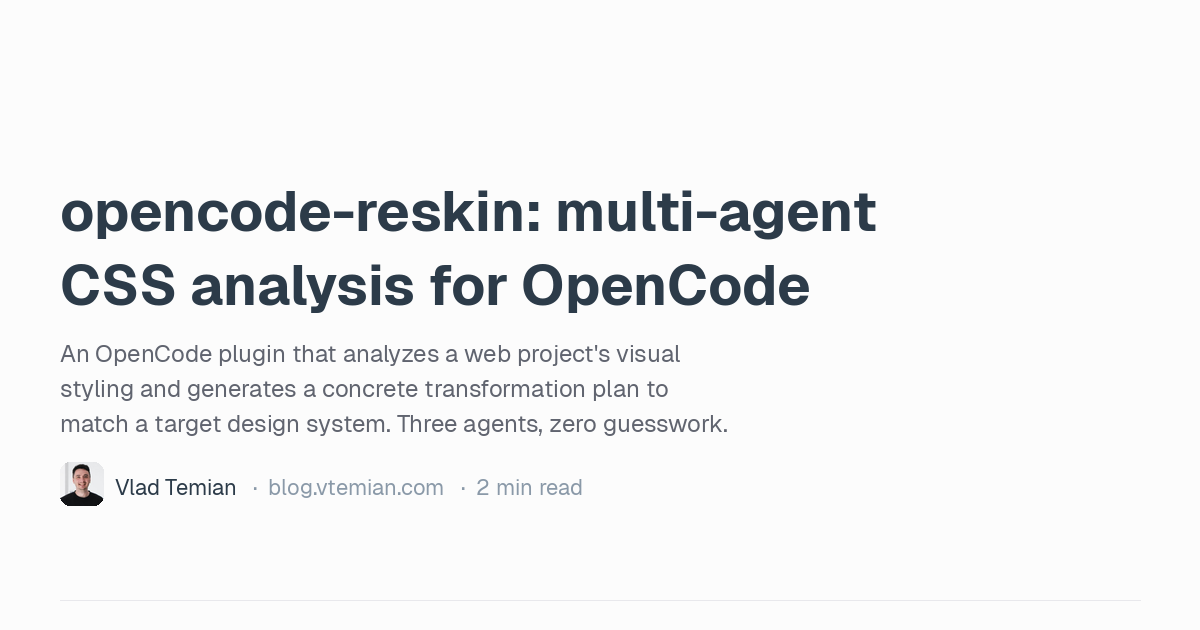
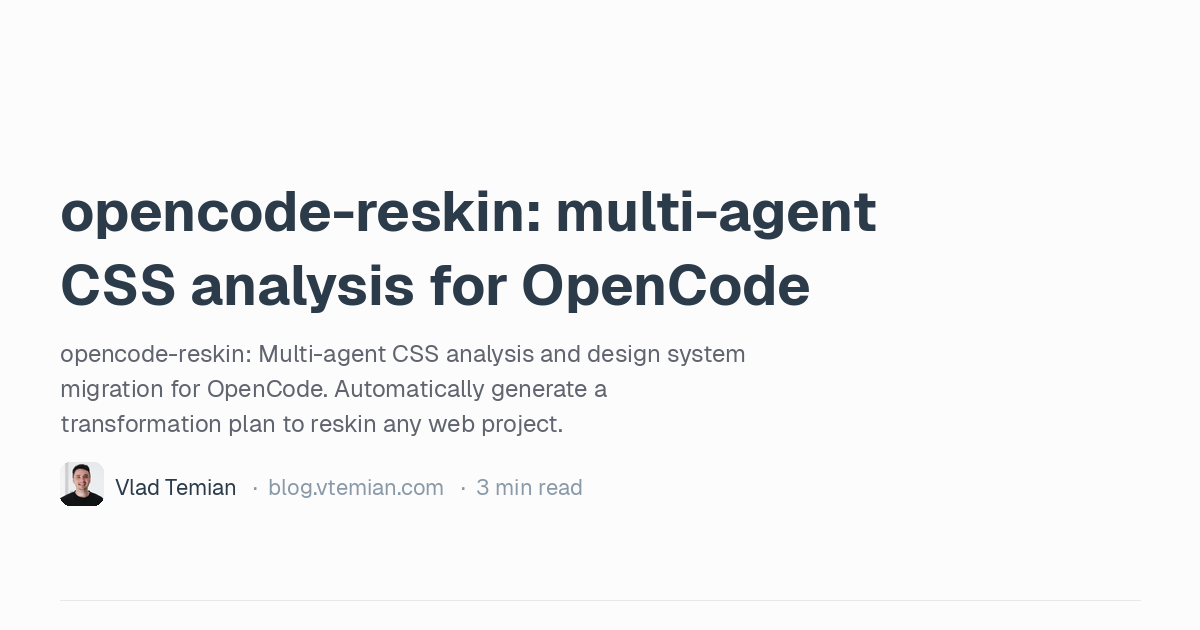
deploy: bbd89ee7d0d56a0121f3741bc6a42ab35b096a62

diff --git a/project/opencode-reskin/index.html b/project/opencode-reskin/index.html
@@ -1,10 +1,7 @@
-<!doctype html><html lang=en><head><script>localStorage.getItem("theme")==="dark"&&document.documentElement.classList.add("dark")</script><meta http-equiv=X-UA-Compatible content="IE=edge"><meta name=viewport content="width=device-width,minimum-scale=1"><link rel=preconnect href=https://cdn.jsdelivr.net crossorigin><link rel=stylesheet href=https://cdn.jsdelivr.net/npm/geist@1/dist/fonts/geist-sans/style.css><link rel=stylesheet href=https://cdn.jsdelivr.net/npm/geist@1/dist/fonts/geist-mono/style.css><link rel=stylesheet href=//cdnjs.cloudflare.com/ajax/libs/highlight.js/11.9.0/styles/nord.min.css><script src=//cdnjs.cloudflare.com/ajax/libs/highlight.js/11.9.0/highlight.min.js></script><script>hljs.highlightAll()</script><meta charset=utf-8><meta name=robots content="index,follow"><link rel=canonical href=https://blog.vtemian.com/project/opencode-reskin/><link rel=icon type=image/svg+xml href=https://blog.vtemian.com/favicon.svg><link rel=apple-touch-icon href=https://blog.vtemian.com/favicon.svg><meta name=keywords content="opencode-reskin,opencode,agentic programming,ai tools,developer tools,css,design systems"><meta name=description content="An OpenCode plugin that analyzes a web project's visual styling and generates a concrete transformation plan to match a target design system. Three agents, zero guesswork."><meta property="og:url" content="https://blog.vtemian.com/project/opencode-reskin/"><meta property="og:site_name" content="Vlad Temian - Centrist Tech Optimist"><meta property="og:title" content="opencode-reskin: multi-agent CSS analysis for OpenCode"><meta property="og:description" content="An OpenCode plugin that analyzes a web project's visual styling and generates a concrete transformation plan to match a target design system. Three agents, zero guesswork."><meta property="og:locale" content="en_US"><meta property="og:type" content="article"><meta property="article:published_time" content="2026-01-02T01:00:00+03:00"><meta property="article:modified_time" content="2026-01-02T01:00:00+03:00"><meta property="article:tag" content="Ai"><meta property="article:tag" content="Tools"><meta property="article:tag" content="Open-Source"><meta property="og:image" content="https://blog.vtemian.com/project/opencode-reskin/og.png"><meta name=twitter:card content="summary_large_image"><meta name=twitter:title content="opencode-reskin: multi-agent CSS analysis for OpenCode"><meta name=twitter:description content="An OpenCode plugin that analyzes a web project's visual styling and generates a concrete transformation plan to match a target design system. Three agents, zero guesswork."><meta name=twitter:image content="https://blog.vtemian.com/project/opencode-reskin/og.png"><script type=application/ld+json>{"@context":"https://schema.org","@type":"BlogPosting","mainEntityOfPage":{"@type":"WebPage","@id":"https:\/\/blog.vtemian.com\/project\/opencode-reskin\/"},"headline":"opencode-reskin: multi-agent CSS analysis for OpenCode","description":"An OpenCode plugin that analyzes a web project\u0027s visual styling and generates a concrete transformation plan to match a target design system. Three agents, zero guesswork.","inLanguage":"en-US","author":{"@type":"Person","name":"Vlad Temian","url":"https:\/\/blog.vtemian.com\/","sameAs":["https://github.com/vtemian","https://linkedin.com/in/vtemian","https://x.com/vtemian"]},"publisher":{"@type":"Person","name":"Vlad Temian"},"datePublished":"2026-01-02T01:00:00\u002b03:00","dateModified":"2026-01-02T01:00:00\u002b03:00","url":"https:\/\/blog.vtemian.com\/project\/opencode-reskin\/","wordCount":284,"timeRequired":"PT1M","keywords":["ai","tools","open-source"]}</script><script type=application/ld+json>{"@context":"https://schema.org","@type":"BreadcrumbList","itemListElement":[{"@type":"ListItem","position":1,"name":"Home","item":"https:\/\/blog.vtemian.com\/"},{"@type":"ListItem","position":2,"name":"Project","item":"https:\/\/blog.vtemian.com\/project/"},{"@type":"ListItem","position":3,"name":"opencode-reskin: multi-agent CSS analysis for OpenCode","item":"https:\/\/blog.vtemian.com\/project\/opencode-reskin\/"}]}</script><title>opencode-reskin: multi-agent CSS analysis for OpenCode | Vlad Temian - Centrist Tech Optimist</title>
+<!doctype html><html lang=en><head><script>localStorage.getItem("theme")==="dark"&&document.documentElement.classList.add("dark")</script><meta http-equiv=X-UA-Compatible content="IE=edge"><meta name=viewport content="width=device-width,minimum-scale=1"><link rel=preconnect href=https://cdn.jsdelivr.net crossorigin><link rel=stylesheet href=https://cdn.jsdelivr.net/npm/geist@1/dist/fonts/geist-sans/style.css><link rel=stylesheet href=https://cdn.jsdelivr.net/npm/geist@1/dist/fonts/geist-mono/style.css><link rel=stylesheet href=//cdnjs.cloudflare.com/ajax/libs/highlight.js/11.9.0/styles/nord.min.css><script src=//cdnjs.cloudflare.com/ajax/libs/highlight.js/11.9.0/highlight.min.js></script><script>hljs.highlightAll()</script><meta charset=utf-8><meta name=robots content="index,follow"><link rel=canonical href=https://blog.vtemian.com/project/opencode-reskin/><link rel=icon type=image/svg+xml href=https://blog.vtemian.com/favicon.svg><link rel=apple-touch-icon href=https://blog.vtemian.com/favicon.svg><meta name=keywords content="opencode-reskin,opencode,agentic programming,ai design system,css orchestration,style transformation,multi-agent design,developer tools,tailwind migration"><meta name=description content="opencode-reskin: Multi-agent CSS analysis and design system migration for OpenCode. Automatically generate a transformation plan to reskin any web project."><meta property="og:url" content="https://blog.vtemian.com/project/opencode-reskin/"><meta property="og:site_name" content="Vlad Temian - Centrist Tech Optimist"><meta property="og:title" content="opencode-reskin: multi-agent CSS analysis for OpenCode"><meta property="og:description" content="opencode-reskin: Multi-agent CSS analysis and design system migration for OpenCode. Automatically generate a transformation plan to reskin any web project."><meta property="og:locale" content="en_US"><meta property="og:type" content="article"><meta property="article:published_time" content="2026-01-02T01:00:00+03:00"><meta property="article:modified_time" content="2026-01-02T01:00:00+03:00"><meta property="article:tag" content="Ai"><meta property="article:tag" content="Tools"><meta property="article:tag" content="Open-Source"><meta property="article:tag" content="Agentic-Programming"><meta property="article:tag" content="Design-Systems"><meta property="og:image" content="https://blog.vtemian.com/project/opencode-reskin/og.png"><meta name=twitter:card content="summary_large_image"><meta name=twitter:title content="opencode-reskin: multi-agent CSS analysis for OpenCode"><meta name=twitter:description content="opencode-reskin: Multi-agent CSS analysis and design system migration for OpenCode. Automatically generate a transformation plan to reskin any web project."><meta name=twitter:image content="https://blog.vtemian.com/project/opencode-reskin/og.png"><script type=application/ld+json>{"@context":"https://schema.org","@type":"BlogPosting","mainEntityOfPage":{"@type":"WebPage","@id":"https:\/\/blog.vtemian.com\/project\/opencode-reskin\/"},"headline":"opencode-reskin: multi-agent CSS analysis for OpenCode","description":"opencode-reskin: Multi-agent CSS analysis and design system migration for OpenCode. Automatically generate a transformation plan to reskin any web project.","inLanguage":"en-US","author":{"@type":"Person","name":"Vlad Temian","url":"https:\/\/blog.vtemian.com\/","sameAs":["https://github.com/vtemian","https://linkedin.com/in/vtemian","https://x.com/vtemian"]},"publisher":{"@type":"Person","name":"Vlad Temian"},"datePublished":"2026-01-02T01:00:00\u002b03:00","dateModified":"2026-01-02T01:00:00\u002b03:00","url":"https:\/\/blog.vtemian.com\/project\/opencode-reskin\/","wordCount":364,"timeRequired":"PT2M","keywords":["ai","tools","open-source","agentic-programming","design-systems"]}</script><script type=application/ld+json>{"@context":"https://schema.org","@type":"BreadcrumbList","itemListElement":[{"@type":"ListItem","position":1,"name":"Home","item":"https:\/\/blog.vtemian.com\/"},{"@type":"ListItem","position":2,"name":"Project","item":"https:\/\/blog.vtemian.com\/project/"},{"@type":"ListItem","position":3,"name":"opencode-reskin: multi-agent CSS analysis for OpenCode","item":"https:\/\/blog.vtemian.com\/project\/opencode-reskin\/"}]}</script><title>opencode-reskin: multi-agent CSS analysis for OpenCode | Vlad Temian - Centrist Tech Optimist</title>
 <link rel=stylesheet href=https://blog.vtemian.com/stylesheets/main.min.a3dd6e53cb8317669f7120e254ee74bc7ddd98748ed802cc4adc882876a27160.css media=screen><meta name=google-site-verification content="2qk_e0y84NNSVpaorKgeNURYF9Ni3UyJvPq9GZdGEgs"></head><body class="bg-bg font-sans text-sm leading-relaxed text-ink antialiased"><div class="mx-auto flex max-w-2xl flex-col gap-12 px-5 py-12"><a href=https://blog.vtemian.com/ class="font-mono text-xs tracking-wide text-muted">Back</a><article class="flex flex-col gap-12"><header class="flex flex-col gap-2"><h1 class=text-2xl>opencode-reskin: multi-agent CSS analysis for OpenCode</h1><p class="text-xs text-link">January 2026</p></header><div class="flex flex-col gap-4"><video autoplay loop muted playsinline width=100% style=margin-bottom:2rem>
-<source src=demo.mp4 type=video/mp4></video><p>Reskinning a web project manually is tedious. You open the target design, then spend hours hunting through CSS files, Tailwind configs, and component styles, trying to figure out what needs to change and where. It&rsquo;s the kind of work that&rsquo;s simple in theory but death by a thousand paper cuts in practice.</p><p><strong><a href=https://github.com/vtemian/opencode-reskin>opencode-reskin</a></strong> automates the analysis and planning.</p><h2 id=one-command-full-plan>One Command, Full Plan</h2><div class=highlight><pre tabindex=0 style=color:#f8f8f2;background-color:#272822;-moz-tab-size:4;-o-tab-size:4;tab-size:4><code class=language-bash data-lang=bash><span style=display:flex><span>/skin nof1
-</span></span></code></pre></div><p>That&rsquo;s it. The plugin scans your project&rsquo;s current styling, compares it against the target skin definition, and produces a markdown checklist of exact changes:</p><pre tabindex=0><code>Change --background: #0f172a -&gt; #ffffff in src/styles/globals.css
-Change font-family: Inter -&gt; IBM Plex Sans in tailwind.config.ts
-Change border-radius: 0.5rem -&gt; 0.25rem in src/components/Card.tsx
-</code></pre><p>It plans, it does not execute. You review the checklist, then apply the changes yourself or hand them off to another agent. Full control over what actually gets modified.</p><h2 id=three-agents-working-in-parallel>Three Agents Working in Parallel</h2><table><thead><tr><th>Agent</th><th>Role</th></tr></thead><tbody><tr><td><strong>reskin</strong></td><td>Orchestrator. Spawns subagents, compares findings against the skin definition, generates the transformation plan</td></tr><tr><td><strong>style-analyzer</strong></td><td>Scans CSS files, Tailwind config, and design tokens</td></tr><tr><td><strong>component-scanner</strong></td><td>Finds UI components, identifies styling patterns, detects the framework</td></tr></tbody></table><p>Both analysis agents run concurrently, so the workflow stays fast even on large projects.</p><h2 id=skins-as-data>Skins as Data</h2><p>Skin definitions are declarative files defining colors (palette and semantic), typography (fonts and scale), spacing, border radius, and optionally data visualization styles, component overrides, and design guidelines. Adding a new skin is just dropping a new definition file into the <code>skins/</code> directory.</p><p>The plugin ships with one skin (<code>nof1</code>, a neutral dashboard style), but the system is designed to be extended.</p><p><strong><a href=https://github.com/vtemian/opencode-reskin>Source on GitHub</a></strong></p><p>Another OpenCode plugin in the same family: <a href=https://blog.vtemian.com/project/micode/>micode</a> applies the multi-agent pattern to the full development workflow, not just styling.</p><p>Stay curious ☕</p></div></article><footer class="flex justify-between text-xs text-link"><span>&copy; 2026 <a href=https://github.com/vtemian>Vlad Temian</a></span>
+<source src=demo.mp4 type=video/mp4></video><p>Reskinning a web project manually is &ldquo;death by a thousand paper cuts.&rdquo; You spend hours hunting through Tailwind configs, global CSS files, and component-level styles, trying to figure out what needs to change to match a new design system. It&rsquo;s tedious, error-prone, and exactly the kind of work humans shouldn&rsquo;t be doing.</p><p><strong><a href=https://github.com/vtemian/opencode-reskin>opencode-reskin</a></strong> automates the &ldquo;archaeology&rdquo; and planning.</p><h2 id=one-command-deterministic-plan>One Command, Deterministic Plan</h2><div class=highlight><pre tabindex=0 style=color:#f8f8f2;background-color:#272822;-moz-tab-size:4;-o-tab-size:4;tab-size:4><code class=language-bash data-lang=bash><span style=display:flex><span>/skin nof1
+</span></span></code></pre></div><p>The plugin scans your project, compares it against a target design system (skin), and produces a <strong>concrete transformation plan</strong>. No guesswork. No &ldquo;maybe.&rdquo; You get a markdown checklist of exact changes:</p><ul><li><code>Change --background: #0f172a -> #ffffff in src/styles/globals.css</code></li><li><code>Change font-family: Inter -> IBM Plex Sans in tailwind.config.ts</code></li><li><code>Change border-radius: 0.5rem -> 0.25rem in src/components/Card.tsx</code></li></ul><h2 id=the-multi-agent-strategy-why-it-matters>The Multi-Agent Strategy: Why it Matters</h2><p>A single LLM prompt often fails at large-scale design migrations because it can&rsquo;t hold the entire CSS/Component tree in context. <strong>opencode-reskin</strong> solves this by orchestrating three specialized agents:</p><ul><li><strong>Style Analyzer</strong>: Scans global CSS, Tailwind configs, and design tokens to build the &ldquo;base&rdquo; styling profile.</li><li><strong>Component Scanner</strong>: Identifies UI patterns and framework-specific styling (e.g., Shadcn, Radix) to see how styles are actually consumed.</li><li><strong>The Orchestrator</strong>: Compares both findings against the target skin and generates the final, unified checklist.</li></ul><p>By splitting the &ldquo;Base CSS&rdquo; from the &ldquo;Component Consumption,&rdquo; the tool avoids the hallucinations common in single-agent architectures.</p><p>&mldr;</p><h2 id=three-agents-working-in-parallel>Three Agents Working in Parallel</h2><table><thead><tr><th>Agent</th><th>Role</th></tr></thead><tbody><tr><td><strong>reskin</strong></td><td>Orchestrator. Spawns subagents, compares findings against the skin definition, generates the transformation plan</td></tr><tr><td><strong>style-analyzer</strong></td><td>Scans CSS files, Tailwind config, and design tokens</td></tr><tr><td><strong>component-scanner</strong></td><td>Finds UI components, identifies styling patterns, detects the framework</td></tr></tbody></table><p>Both analysis agents run concurrently, so the workflow stays fast even on large projects.</p><h2 id=skins-as-data>Skins as Data</h2><p>Skin definitions are declarative files defining colors (palette and semantic), typography (fonts and scale), spacing, border radius, and optionally data visualization styles, component overrides, and design guidelines. Adding a new skin is just dropping a new definition file into the <code>skins/</code> directory.</p><p>The plugin ships with one skin (<code>nof1</code>, a neutral dashboard style), but the system is designed to be extended.</p><p><strong><a href=https://github.com/vtemian/opencode-reskin>Source on GitHub</a></strong></p><p>Another OpenCode plugin in the same family: <a href=https://blog.vtemian.com/project/micode/>micode</a> applies the multi-agent pattern to the full development workflow, not just styling.</p><p>Stay curious ☕</p></div></article><footer class="flex justify-between text-xs text-link"><span>&copy; 2026 <a href=https://github.com/vtemian>Vlad Temian</a></span>
 <span>Order within chaos.</span></footer></div><script type=module>
     import mermaid from 'https://cdn.jsdelivr.net/npm/mermaid@11/dist/mermaid.esm.min.mjs';
     mermaid.initialize({ startOnLoad: false, theme: 'neutral' });

diff --git a/tags/design-systems/index.html b/tags/design-systems/index.html
@@ -1,0 +1,25 @@
+<!doctype html><html lang=en><head><script>localStorage.getItem("theme")==="dark"&&document.documentElement.classList.add("dark")</script><meta http-equiv=X-UA-Compatible content="IE=edge"><meta name=viewport content="width=device-width,minimum-scale=1"><link rel=preconnect href=https://cdn.jsdelivr.net crossorigin><link rel=stylesheet href=https://cdn.jsdelivr.net/npm/geist@1/dist/fonts/geist-sans/style.css><link rel=stylesheet href=https://cdn.jsdelivr.net/npm/geist@1/dist/fonts/geist-mono/style.css><link rel=stylesheet href=//cdnjs.cloudflare.com/ajax/libs/highlight.js/11.9.0/styles/nord.min.css><script src=//cdnjs.cloudflare.com/ajax/libs/highlight.js/11.9.0/highlight.min.js></script><script>hljs.highlightAll()</script><meta charset=utf-8><meta name=robots content="index,follow"><link rel=canonical href=https://blog.vtemian.com/tags/design-systems/><link rel=icon type=image/svg+xml href=https://blog.vtemian.com/favicon.svg><link rel=apple-touch-icon href=https://blog.vtemian.com/favicon.svg><meta name=keywords content="vtemian,agentic programming,ai tools,claude code,developer tools,open source"><meta name=description content="I build agentic programming tools. 15+ years of systems infrastructure experience, now focused on making AI agents reliable and accessible for developers. Former CTO, open-source builder, community organizer at agentic.tm."><meta property="og:url" content="https://blog.vtemian.com/tags/design-systems/"><meta property="og:site_name" content="Vlad Temian - Centrist Tech Optimist"><meta property="og:title" content="Design-Systems"><meta property="og:description" content="I build agentic programming tools. 15+ years of systems infrastructure experience, now focused on making AI agents reliable and accessible for developers. Former CTO, open-source builder, community organizer at agentic.tm."><meta property="og:locale" content="en_US"><meta property="og:type" content="website"><meta name=twitter:card content="summary_large_image"><meta name=twitter:title content="Design-Systems"><meta name=twitter:description content="I build agentic programming tools. 15+ years of systems infrastructure experience, now focused on making AI agents reliable and accessible for developers. Former CTO, open-source builder, community organizer at agentic.tm."><script type=application/ld+json>{"@context":"https://schema.org","@type":"BlogPosting","mainEntityOfPage":{"@type":"WebPage","@id":"https:\/\/blog.vtemian.com\/tags\/design-systems\/"},"headline":"Design-Systems","description":"I build agentic programming tools. 15\u002b years of systems infrastructure experience, now focused on making AI agents reliable and accessible for developers. Former CTO, open-source builder, community organizer at agentic.tm.","inLanguage":"en-US","author":{"@type":"Person","name":"Vlad Temian","url":"https:\/\/blog.vtemian.com\/","sameAs":["https://github.com/vtemian","https://linkedin.com/in/vtemian","https://x.com/vtemian"]},"publisher":{"@type":"Person","name":"Vlad Temian"},"datePublished":"2026-01-02T01:00:00\u002b03:00","dateModified":"2026-01-02T01:00:00\u002b03:00","url":"https:\/\/blog.vtemian.com\/tags\/design-systems\/","wordCount":0,"timeRequired":"PT1M","keywords":[]}</script><script type=application/ld+json>{"@context":"https://schema.org","@type":"BreadcrumbList","itemListElement":[{"@type":"ListItem","position":1,"name":"Home","item":"https:\/\/blog.vtemian.com\/"}]}</script><title>Design-Systems | Vlad Temian - Centrist Tech Optimist</title>
+<link rel=stylesheet href=https://blog.vtemian.com/stylesheets/main.min.a3dd6e53cb8317669f7120e254ee74bc7ddd98748ed802cc4adc882876a27160.css media=screen><meta name=google-site-verification content="2qk_e0y84NNSVpaorKgeNURYF9Ni3UyJvPq9GZdGEgs"></head><body class="bg-bg font-sans text-sm leading-relaxed text-ink antialiased"><div class="mx-auto flex max-w-xl flex-col gap-12 px-5 py-12"><svg width="0" height="0" class="absolute"><defs><clipPath id="squircle" clipPathUnits="objectBoundingBox"><path d="M0 .5C-.001.14.14.0.5.0s.501.14.5.5C1.001.86.86 1 .5 1S-.001.86.0.5z"/></clipPath></defs></svg><section class="flex items-center gap-4"><img src=https://qed.builders/images/team/vlad-temian@2x.png alt="Vlad Temian" class="h-14 w-14" style=clip-path:url(#squircle)><div class=flex-1><p>Vlad Temian</p><p>Centrist Tech Optimist</p></div><button id=theme-toggle aria-label="Toggle dark mode" class="relative flex h-8 w-8 cursor-pointer items-center justify-center text-muted transition-colors duration-200 hover:text-ink">
+<svg id="icon-sun" class="absolute h-5 w-5 transition-all duration-300 ease-out" viewBox="0 0 24 24" fill="none" stroke="currentcolor" stroke-width="1.5" stroke-linecap="round" stroke-linejoin="round"><circle cx="12" cy="12" r="5"/><line x1="12" y1="1" x2="12" y2="3"/><line x1="12" y1="21" x2="12" y2="23"/><line x1="4.22" y1="4.22" x2="5.64" y2="5.64"/><line x1="18.36" y1="18.36" x2="19.78" y2="19.78"/><line x1="1" y1="12" x2="3" y2="12"/><line x1="21" y1="12" x2="23" y2="12"/><line x1="4.22" y1="19.78" x2="5.64" y2="18.36"/><line x1="18.36" y1="5.64" x2="19.78" y2="4.22"/></svg>
+<svg id="icon-moon" class="absolute h-5 w-5 transition-all duration-300 ease-out" viewBox="0 0 24 24" fill="none" stroke="currentcolor" stroke-width="1.5" stroke-linecap="round" stroke-linejoin="round"><path d="M21 12.79A9 9 0 1111.21 3 7 7 0 0021 12.79z"/></svg>
+</button>
+<script>(()=>{const s=document.getElementById("theme-toggle"),e=document.getElementById("icon-sun"),t=document.getElementById("icon-moon"),n=n=>{e.style.opacity=n?"1":"0",e.style.transform=n?"rotate(0deg)":"rotate(-90deg)",t.style.opacity=n?"0":"1",t.style.transform=n?"rotate(90deg)":"rotate(0deg)"};n(document.documentElement.classList.contains("dark")),s.addEventListener("click",()=>{const e=document.documentElement.classList.toggle("dark");localStorage.setItem("theme",e?"dark":"light"),n(e)})})()</script></section><section><h2 class="mb-4 font-mono text-xs tracking-wide text-muted">About</h2><p>I build agentic programming tools.</p><br><p>15+ years helping startups scale production infrastructure.</p><p>Former CTO of <a href=https://www.linkedin.com/company/qed-builders-software/ target=_blank rel="noopener noreferrer" class="border-b border-b-link-border pb-0.5 text-link transition-all duration-200 ease-out hover:border-b-ink hover:text-ink">qed.builders</a> (acquired by <a href=https://www.linkedin.com/company/thesandbox-game/ target=_blank rel="noopener noreferrer" class="border-b border-b-link-border pb-0.5 text-link transition-all duration-200 ease-out hover:border-b-ink hover:text-ink">The Sandbox</a>). Organizer at <a href=https://agentic.tm target=_blank rel="noopener noreferrer" class="border-b border-b-link-border pb-0.5 text-link transition-all duration-200 ease-out hover:border-b-ink hover:text-ink">agentic.tm</a>. <a href=https://cursor.com target=_blank rel="noopener noreferrer" class="border-b border-b-link-border pb-0.5 text-link transition-all duration-200 ease-out hover:border-b-ink hover:text-ink">Cursor</a> ambassador.</p><br><p>I believe everyone should be able to ship ideas.</p></section><section><h2 class="mb-4 font-mono text-xs tracking-wide text-muted">Writing</h2><div class="relative flex flex-col gap-1" id=writing-list><div id=writing-highlight class="pointer-events-none absolute rounded-lg bg-surface opacity-0 transition-all duration-150"></div><a href=https://blog.vtemian.com/post/mcp-is-great-for-tools-terrible-for-agents/ class="relative -mx-3 flex items-center justify-between gap-4 rounded-lg px-3 py-2 transition-colors duration-150"><div class=min-w-0><h3 class=truncate>MCP Is Great for Tools. Terrible for Agents.</h3><p class="text-xs text-link">February 2026</p></div><span class="shrink-0 rounded border border-border px-2 py-0.5 text-xs capitalize text-muted">post</span>
+</a><a href=https://blog.vtemian.com/post/vibe-infer/ class="relative -mx-3 flex items-center justify-between gap-4 rounded-lg px-3 py-2 transition-colors duration-150"><div class=min-w-0><h3 class=truncate>vibe-infer: Learning GPU Programming with Claude Code</h3><p class="text-xs text-link">February 2026</p></div><span class="shrink-0 rounded border border-border px-2 py-0.5 text-xs capitalize text-muted">post</span>
+</a><a href=https://blog.vtemian.com/project/claudebin/ class="relative -mx-3 flex items-center justify-between gap-4 rounded-lg px-3 py-2 transition-colors duration-150"><div class=min-w-0><h3 class=truncate>claudebin: share and embed Claude Code sessions</h3><p class="text-xs text-link">February 2026</p></div><span class="shrink-0 rounded border border-border px-2 py-0.5 text-xs capitalize text-muted">project</span>
+</a><a href=https://blog.vtemian.com/talk/indie-hacking-update/ class="relative -mx-3 flex items-center justify-between gap-4 rounded-lg px-3 py-2 transition-colors duration-150"><div class=min-w-0><h3 class=truncate>Riding Existing Waves: My Indie Hacking Journey with Sisif.ai</h3><p class="text-xs text-link">January 2026</p></div><span class="shrink-0 rounded border border-border px-2 py-0.5 text-xs capitalize text-muted">talk</span>
+</a><a href=https://blog.vtemian.com/project/opencode-reskin/ class="relative -mx-3 flex items-center justify-between gap-4 rounded-lg px-3 py-2 transition-colors duration-150"><div class=min-w-0><h3 class=truncate>opencode-reskin: multi-agent CSS analysis for OpenCode</h3><p class="text-xs text-link">January 2026</p></div><span class="shrink-0 rounded border border-border px-2 py-0.5 text-xs capitalize text-muted">project</span>
+</a><a href=https://blog.vtemian.com/project/octto/ class="relative -mx-3 flex items-center justify-between gap-4 rounded-lg px-3 py-2 transition-colors duration-150"><div class=min-w-0><h3 class=truncate>octto: browser UI for brainstorming with OpenCode agents</h3><p class="text-xs text-link">January 2026</p></div><span class="shrink-0 rounded border border-border px-2 py-0.5 text-xs capitalize text-muted">project</span>
+</a><a href=https://blog.vtemian.com/project/micode/ class="relative -mx-3 flex items-center justify-between gap-4 rounded-lg px-3 py-2 transition-colors duration-150"><div class=min-w-0><h3 class=truncate>micode: context harnessing, planning and parallel execution for OpenCode</h3><p class="text-xs text-link">December 2025</p></div><span class="shrink-0 rounded border border-border px-2 py-0.5 text-xs capitalize text-muted">project</span>
+</a><a href=https://blog.vtemian.com/talk/technical-debt-is-cheap/ class="relative -mx-3 flex items-center justify-between gap-4 rounded-lg px-3 py-2 transition-colors duration-150"><div class=min-w-0><h3 class=truncate>Technical Debt is Cheap</h3><p class="text-xs text-link">October 2025</p></div><span class="shrink-0 rounded border border-border px-2 py-0.5 text-xs capitalize text-muted">talk</span>
+</a><a href=https://blog.vtemian.com/project/claude-notes/ class="relative -mx-3 flex items-center justify-between gap-4 rounded-lg px-3 py-2 transition-colors duration-150"><div class=min-w-0><h3 class=truncate>claude-notes: claude code sessions to html</h3><p class="text-xs text-link">June 2025</p></div><span class="shrink-0 rounded border border-border px-2 py-0.5 text-xs capitalize text-muted">project</span>
+</a><a href=https://blog.vtemian.com/post/parallel-transaction-execution-in-blockchains/ class="relative -mx-3 flex items-center justify-between gap-4 rounded-lg px-3 py-2 transition-colors duration-150"><div class=min-w-0><h3 class=truncate>Parallel Transaction Execution in Blockchains</h3><p class="text-xs text-link">October 2024</p></div><span class="shrink-0 rounded border border-border px-2 py-0.5 text-xs capitalize text-muted">post</span>
+</a><a href=https://blog.vtemian.com/post/healthy-python-codebase/ class="relative -mx-3 flex items-center justify-between gap-4 rounded-lg px-3 py-2 transition-colors duration-150"><div class=min-w-0><h3 class=truncate>Healthy Python Codebase</h3><p class="text-xs text-link">September 2020</p></div><span class="shrink-0 rounded border border-border px-2 py-0.5 text-xs capitalize text-muted">post</span>
+</a><a href=https://blog.vtemian.com/post/serverless-hosting-platform/ class="relative -mx-3 flex items-center justify-between gap-4 rounded-lg px-3 py-2 transition-colors duration-150"><div class=min-w-0><h3 class=truncate>Building a serverless hosting platform</h3><p class="text-xs text-link">May 2020</p></div><span class="shrink-0 rounded border border-border px-2 py-0.5 text-xs capitalize text-muted">post</span>
+</a><a href=https://blog.vtemian.com/post/multiple-inheritance/ class="relative -mx-3 flex items-center justify-between gap-4 rounded-lg px-3 py-2 transition-colors duration-150"><div class=min-w-0><h3 class=truncate>Python Multiple Inheritance</h3><p class="text-xs text-link">May 2020</p></div><span class="shrink-0 rounded border border-border px-2 py-0.5 text-xs capitalize text-muted">post</span>
+</a><a href=https://blog.vtemian.com/post/interviews/ class="relative -mx-3 flex items-center justify-between gap-4 rounded-lg px-3 py-2 transition-colors duration-150"><div class=min-w-0><h3 class=truncate>Interviews</h3><p class="text-xs text-link">January 2019</p></div><span class="shrink-0 rounded border border-border px-2 py-0.5 text-xs capitalize text-muted">post</span>
+</a><a href=https://blog.vtemian.com/post/2019/ class="relative -mx-3 flex items-center justify-between gap-4 rounded-lg px-3 py-2 transition-colors duration-150"><div class=min-w-0><h3 class=truncate>2019</h3><p class="text-xs text-link">January 2019</p></div><span class="shrink-0 rounded border border-border px-2 py-0.5 text-xs capitalize text-muted">post</span></a></div><script>(()=>{const t=document.getElementById("writing-list"),e=document.getElementById("writing-highlight"),n=n=>{const{top:o,left:i,width:a,height:r}=n.getBoundingClientRect(),s=t.getBoundingClientRect();Object.assign(e.style,{top:`${o-s.top}px`,left:`${i-s.left}px`,width:`${a}px`,height:`${r}px`}),e.classList.remove("opacity-0"),e.classList.add("opacity-100")},s=()=>{e.classList.remove("opacity-100"),e.classList.add("opacity-0")};t.querySelectorAll("a").forEach(e=>{e.addEventListener("mouseenter",()=>n(e))}),t.addEventListener("mouseleave",s)})()</script></section><section><h2 class="mb-4 font-mono text-xs tracking-wide text-muted">Contact</h2><div class="flex flex-col gap-2"><div class="grid grid-cols-12 gap-2"><span class="col-span-4 text-muted">Email</span>
+<a href=mailto:me@vtemian.com class=col-span-8>me@vtemian.com</a></div><div class="grid grid-cols-12 gap-2"><span class="col-span-4 text-muted">LinkedIn</span>
+<a href=https://www.linkedin.com/in/vtemian class=col-span-8>/in/vtemian</a></div><div class="grid grid-cols-12 gap-2"><span class="col-span-4 text-muted">GitHub</span>
+<a href=https://github.com/vtemian class=col-span-8>vtemian</a></div><div class="grid grid-cols-12 gap-2"><span class="col-span-4 text-muted">X</span>
+<a href=https://x.com/vtemian class=col-span-8>@vtemian</a></div></div></section><footer class="flex justify-between text-xs text-link"><span>&copy; 2026 <a href=https://github.com/vtemian>Vlad Temian</a></span>
+<span>Order within chaos.</span></footer></div></body></html>

diff --git a/project/opencode-reskin/index.md b/project/opencode-reskin/index.md
@@ -3,8 +3,8 @@ title: "opencode-reskin: multi-agent CSS analysis for OpenCode"
 date: 2026-01-02
 author: Vlad Temian
 url: https://blog.vtemian.com/project/opencode-reskin/
-description: "An OpenCode plugin that analyzes a web project's visual styling and generates a concrete transformation plan to match a target design system. Three agents, zero guesswork."
-tags: [ai, tools, open-source]
+description: "opencode-reskin: Multi-agent CSS analysis and design system migration for OpenCode. Automatically generate a transformation plan to reskin any web project."
+tags: [ai, tools, open-source, agentic-programming, design-systems]
 ---
 
 # opencode-reskin: multi-agent CSS analysis for OpenCode
@@ -14,26 +14,32 @@ tags: [ai, tools, open-source]
   <source src="demo.mp4" type="video/mp4">
 </video>
 
-Reskinning a web project manually is tedious. You open the target design, then spend hours hunting through CSS files, Tailwind configs, and component styles, trying to figure out what needs to change and where. It's the kind of work that's simple in theory but death by a thousand paper cuts in practice.
+Reskinning a web project manually is "death by a thousand paper cuts." You spend hours hunting through Tailwind configs, global CSS files, and component-level styles, trying to figure out what needs to change to match a new design system. It's tedious, error-prone, and exactly the kind of work humans shouldn't be doing.
 
-**[opencode-reskin](https://github.com/vtemian/opencode-reskin)** automates the analysis and planning.
+**[opencode-reskin](https://github.com/vtemian/opencode-reskin)** automates the "archaeology" and planning.
 
-## One Command, Full Plan
+## One Command, Deterministic Plan
 
 ```bash
 /skin nof1
 ```
 
-That's it. The plugin scans your project's current styling, compares it against the target skin definition, and produces a markdown checklist of exact changes:
+The plugin scans your project, compares it against a target design system (skin), and produces a **concrete transformation plan**. No guesswork. No "maybe." You get a markdown checklist of exact changes:
+- `Change --background: #0f172a -> #ffffff in src/styles/globals.css`
+- `Change font-family: Inter -> IBM Plex Sans in tailwind.config.ts`
+- `Change border-radius: 0.5rem -> 0.25rem in src/components/Card.tsx`
 
-```
-Change --background: #0f172a -> #ffffff in src/styles/globals.css
-Change font-family: Inter -> IBM Plex Sans in tailwind.config.ts
-Change border-radius: 0.5rem -> 0.25rem in src/components/Card.tsx
-```
+## The Multi-Agent Strategy: Why it Matters
 
-It plans, it does not execute. You review the checklist, then apply the changes yourself or hand them off to another agent. Full control over what actually gets modified.
+A single LLM prompt often fails at large-scale design migrations because it can't hold the entire CSS/Component tree in context. **opencode-reskin** solves this by orchestrating three specialized agents:
 
+- **Style Analyzer**: Scans global CSS, Tailwind configs, and design tokens to build the "base" styling profile.
+- **Component Scanner**: Identifies UI patterns and framework-specific styling (e.g., Shadcn, Radix) to see how styles are actually consumed.
+- **The Orchestrator**: Compares both findings against the target skin and generates the final, unified checklist.
+
+By splitting the "Base CSS" from the "Component Consumption," the tool avoids the hallucinations common in single-agent architectures.
+
+...
 ## Three Agents Working in Parallel
 
 | Agent | Role |
